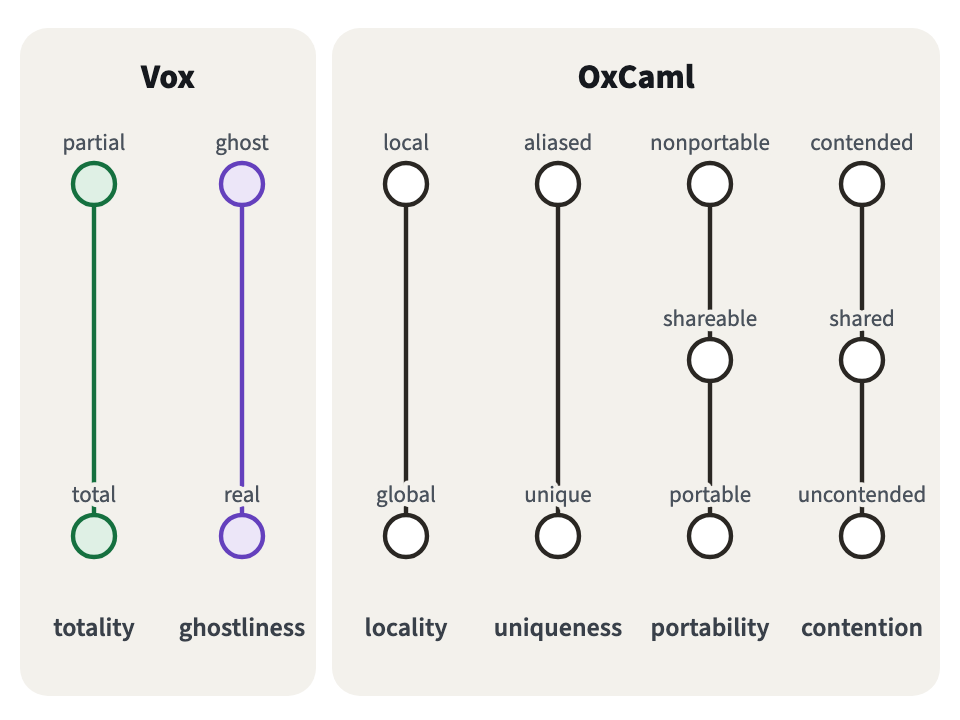
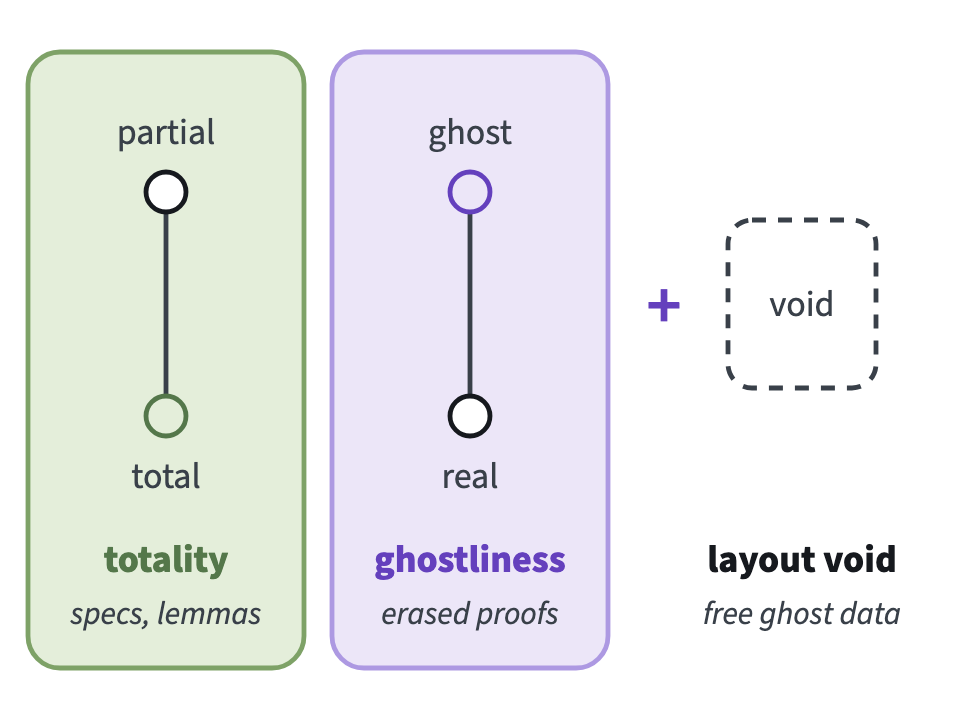
Show Vox's new mode axes on the OxCaml card

Changed region(s): [[0.0, 0.0611, 0.9688, 0.9472], [0.0312, 0.0611, 0.3125, 0.1222]]

diff --git a/index.html b/index.html
@@ -388,7 +388,7 @@
     <h2 id="research">Research projects</h2>
     <div id="projects">
       <article class="project">
-        <div class="figure"><img src="images/projects/modes.png" width="960" height="720" loading="lazy" alt="Mode lattices: Vox adds totality (partial, total) and ghostliness (ghost, real) to OxCaml's locality (local, global), uniqueness (aliased, unique), portability (nonportable, shareable, portable) and contention (contended, shared, uncontended)." /></div>
+        <div class="figure"><img src="images/projects/modes.png" width="960" height="720" loading="lazy" alt="What Vox adds to OxCaml's modes: a totality axis (partial, total) for specs and lemmas, a ghostliness axis (ghost, real) for erased proofs, and the void layout for free ghost data." /></div>
         <div class="body">
           <h3>Safe and verified programming in OxCaml</h3>
           <p><a href="https://github.com/oxcaml/oxcaml">OxCaml</a> is Jane Street's extension of OCaml for safe, fast systems programming. Its modes track whether a value can escape its stack frame or be shared between threads, and <a href="#mode-crossing">mode crossing</a> lets integers, immutable data and other suitable types skip those restrictions automatically. <a href="vox/">Vox</a> builds on OxCaml to check specifications at compile time, with refinement types and ghost proofs that are erased before code generation.</p>
